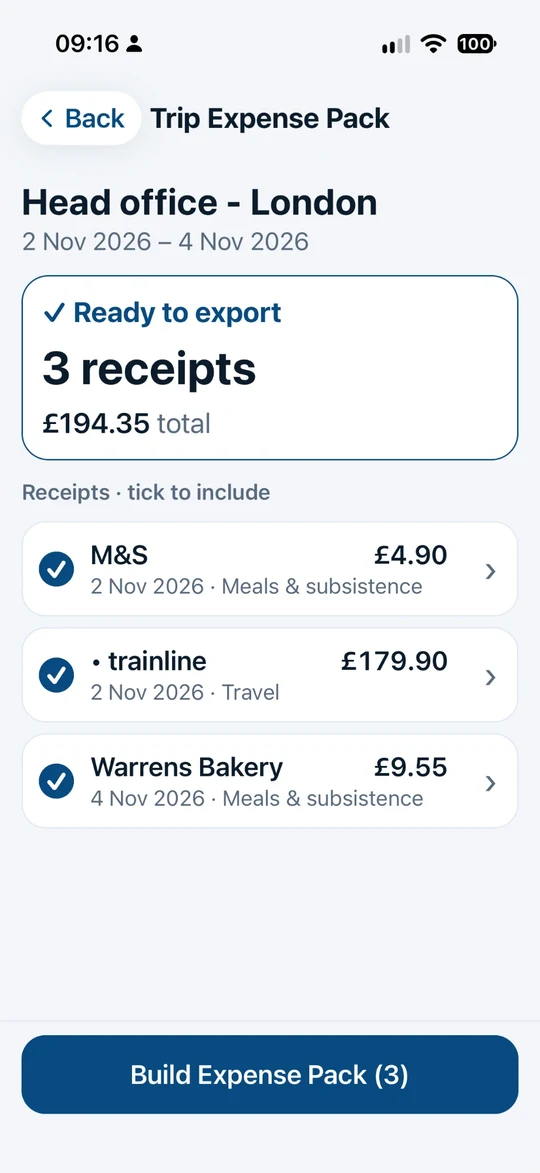
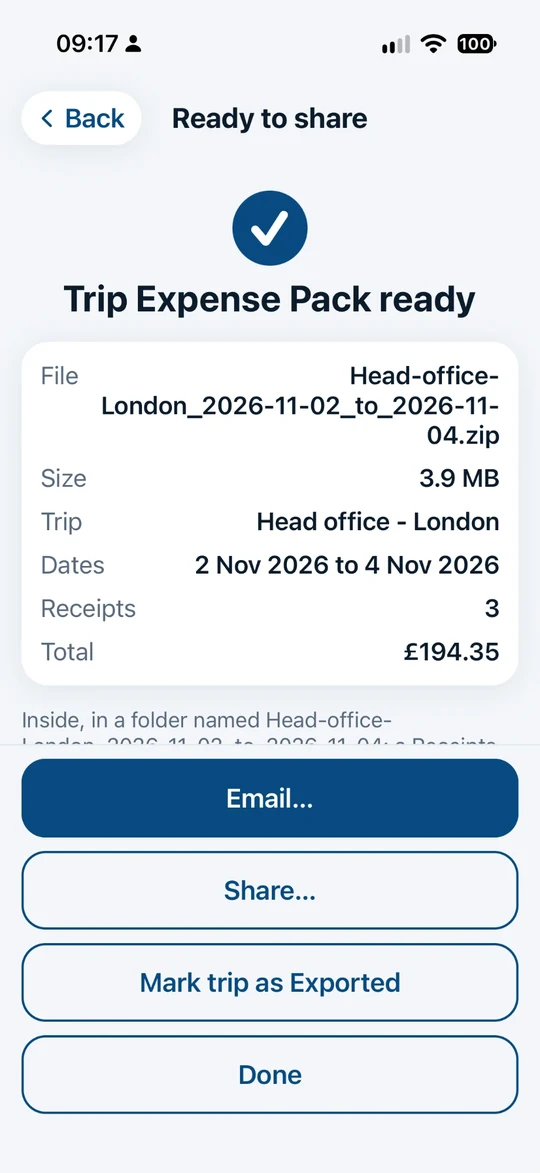
Website: final five-screen set from the new design, captions updated
Claude-Session: https://claude.ai/code/session_01SivDtSVAvt3MGnK75Gy8rP

diff --git a/index.html b/index.html
@@ -46,7 +46,7 @@
     <p class="fine">Free for 3 days, then &pound;5.99 a month. Cancel any time.</p>
   </div>
   <div class="hero2-shot">
-    <img src="screens/scan.webp?v=2" width="540" height="1173" alt="A receipt just scanned in ClaimKit: total, date and shop filled in and marked Read from receipt" fetchpriority="high">
+    <img src="screens/scan.webp?v=2" width="540" height="1173" alt="A receipt in ClaimKit with the total, date, shop, category and trip filled in to check" fetchpriority="high">
   </div>
 </section>
 
@@ -71,10 +71,10 @@
     <li><strong>Send it.</strong> Build an expense pack: a ZIP with the receipt images, a PDF summary and a spreadsheet (CSV), then email it from the app.</li>
   </ol>
   <div class="shots" aria-label="ClaimKit screenshots">
-    <figure><img src="screens/scan.webp?v=2" width="540" height="1173" alt="A receipt just scanned: total, date and shop filled in, marked Read from receipt" loading="lazy"><figcaption><strong>Scan it</strong>Read on your iPhone, ready to check</figcaption></figure>
+    <figure><img src="screens/scan.webp?v=2" width="540" height="1173" alt="A receipt with the total, date, shop, category and trip filled in to check" loading="lazy"><figcaption><strong>Scan it</strong>Read on your iPhone, ready to check</figcaption></figure>
     <figure><img src="screens/home.webp?v=2" width="540" height="1173" alt="ClaimKit home screen with recent receipts" loading="lazy"><figcaption><strong>Keep it</strong>Every receipt in one place</figcaption></figure>
     <figure><img src="screens/trip.webp?v=2" width="540" height="1173" alt="A trip with its receipts, totals and categories" loading="lazy"><figcaption><strong>Group it</strong>Trips, totals and what needs a look</figcaption></figure>
-    <figure><img src="screens/pack.webp?v=2" width="540" height="1173" alt="Choosing receipts to include in an expense pack" loading="lazy"><figcaption><strong>Send it</strong>An expense pack in one ZIP</figcaption></figure>
+    <figure><img src="screens/pack.webp?v=2" width="540" height="1173" alt="An expense pack ready to email or share, with the file, size, dates and total" loading="lazy"><figcaption><strong>Send it</strong>Email or share an expense pack</figcaption></figure>
   </div>
 </section>
 
